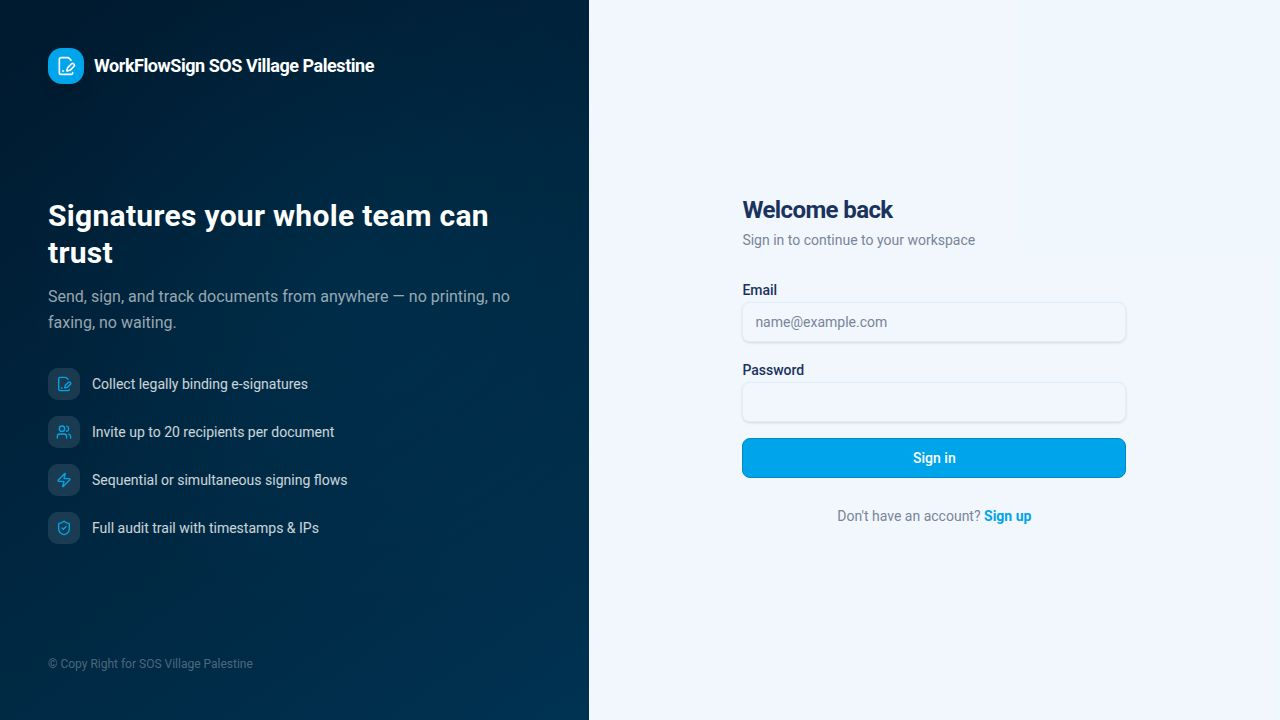
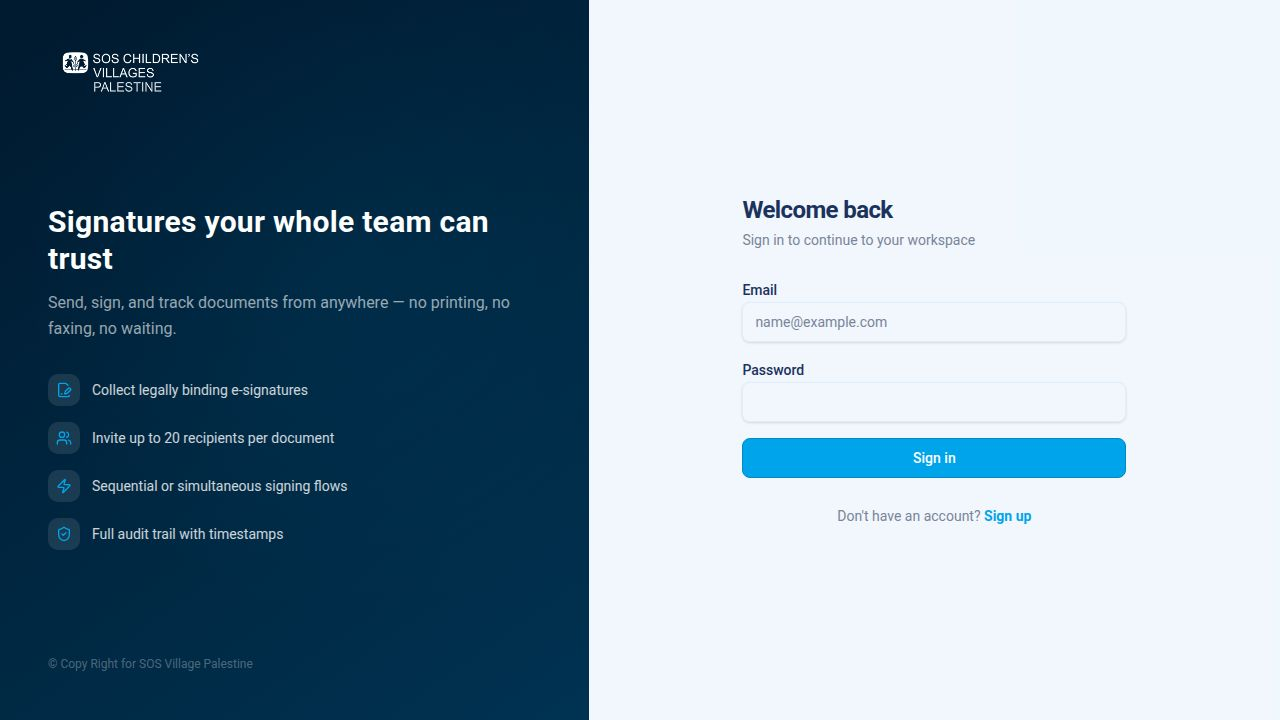
Update build process to generate a secondary HTML file
Modify Vite configuration to remove multi-page setup and implement a post-build plugin for generating `sign.html` with injected meta tags, resolving a production build EISDIR error.

Replit-Commit-Author: Agent
Replit-Commit-Session-Id: f0df05de-3abd-47e7-8efe-7c738f5463e6
Replit-Commit-Checkpoint-Type: full_checkpoint
Replit-Commit-Event-Id: b94abd66-c07a-4657-8a9b-e77f45762885
Replit-Commit-Screenshot-Url: https://storage.googleapis.com/screenshot-production-us-central1/7be4850d-244c-49ce-be9c-3f84ac4ed4b9/f0df05de-3abd-47e7-8efe-7c738f5463e6/oYSYRC7
Replit-Helium-Checkpoint-Created: true

Changed region(s): [[0.0312, 0.4889, 0.2812, 0.7639], [0.0312, 0.275, 0.4062, 0.4889], [0.0312, 0.0611, 0.2812, 0.1222]]

diff --git a/artifacts/esign-app/vite.config.ts b/artifacts/esign-app/vite.config.ts
@@ -35,6 +35,24 @@ export default defineConfig({
           next();
         });
       },
+      // After the production build, generate sign.html from index.html with noindex injected.
+      // This avoids a multi-page rollupOptions.input which triggers EISDIR on Vite 7 in production.
+      closeBundle() {
+        if (process.env.NODE_ENV !== "production") return;
+        const outDir = path.resolve(import.meta.dirname, "dist/public");
+        const indexPath = path.join(outDir, "index.html");
+        const signPath = path.join(outDir, "sign.html");
+        try {
+          const indexHtml = fs.readFileSync(indexPath, "utf-8");
+          const signHtml = indexHtml.replace(
+            "<head>",
+            '<head>\n    <meta name="robots" content="noindex, nofollow, noarchive" />',
+          );
+          fs.writeFileSync(signPath, signHtml);
+        } catch {
+          // dist may not exist when not in a build context
+        }
+      },
     },
     ...(process.env.NODE_ENV !== "production" &&
     process.env.REPL_ID !== undefined
@@ -62,10 +80,6 @@ export default defineConfig({
     outDir: path.resolve(import.meta.dirname, "dist/public"),
     emptyOutDir: true,
     rollupOptions: {
-      input: {
-        main: path.resolve(import.meta.dirname, "index.html"),
-        sign: path.resolve(import.meta.dirname, "sign.html"),
-      },
       output: {
         manualChunks(id) {
           if (id.includes("node_modules/react-pdf") || id.includes("node_modules/pdfjs-dist")) {

diff --git a/.agents/memory/vite-multipage-eisdir.md b/.agents/memory/vite-multipage-eisdir.md
@@ -1,0 +1,35 @@
+---
+name: Vite multi-page EISDIR fix
+description: Why multi-page rollupOptions.input causes EISDIR in production builds on Vite 7, and the correct fix.
+---
+
+## The rule
+
+Never use `rollupOptions.input` with multiple HTML entry points in Vite 7 production builds for this project. Use a `closeBundle` plugin hook to generate additional HTML variants from the built `index.html` instead.
+
+**Why:** Vite 7's `vite:build-html` plugin's `processAssetUrl`/`fileToBuiltUrl` path hits EISDIR when processing HTML files listed as multi-page inputs in the deployment container (even though local builds succeed). Root-relative hrefs like `href="/"` in `<link>` tags and possibly anchor tags in static-shell HTML trigger it. The production deployment container and local dev container resolve paths differently enough that the local build succeeds while the deployment build fails.
+
+**How to apply:** When a second HTML entry is needed (e.g. `sign.html` for noindex), generate it as a post-build artifact by reading the built `index.html` and patching it in a `closeBundle` hook gated on `NODE_ENV === "production"`. The source `sign.html` file (used by the dev middleware) stays in the project root for dev-mode serving, but is NOT included in `rollupOptions.input`.
+
+## Pattern
+
+```ts
+// In the sign-route-noindex plugin:
+closeBundle() {
+  if (process.env.NODE_ENV !== "production") return;
+  const outDir = path.resolve(import.meta.dirname, "dist/public");
+  const indexHtml = fs.readFileSync(path.join(outDir, "index.html"), "utf-8");
+  const signHtml = indexHtml.replace(
+    "<head>",
+    '<head>\n    <meta name="robots" content="noindex, nofollow, noarchive" />',
+  );
+  fs.writeFileSync(path.join(outDir, "sign.html"), signHtml);
+}
+```
+
+## Diagnosis trail
+
+- The old `vite.config.ts` threw on missing `PORT`/`BASE_PATH`, masking the underlying EISDIR in deployment.
+- Once safe defaults were added, the config no longer threw early, and the real EISDIR surfaced.
+- The error is in `ModuleLoader.addModuleSource` → `transform` (vite:build-html plugin) → `Promise.all` → `processAssetUrl` → `fileToBuiltUrl` → `readFile` on a directory path.
+- Removing `rollupOptions.input` eliminates the multi-page HTML transform path entirely.

diff --git a/.agents/memory/MEMORY.md b/.agents/memory/MEMORY.md
@@ -1,0 +1,1 @@
+- [Vite multi-page EISDIR fix](vite-multipage-eisdir.md) — removing rollupOptions.input and using a closeBundle plugin to generate sign.html avoids deployment EISDIR errors in Vite 7.